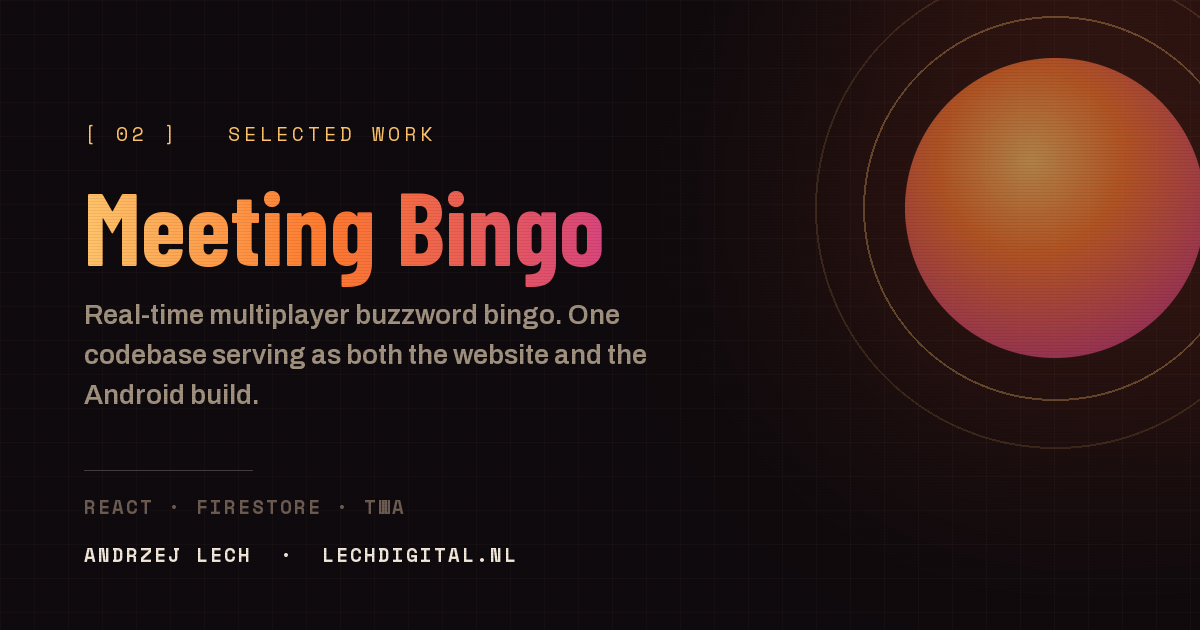
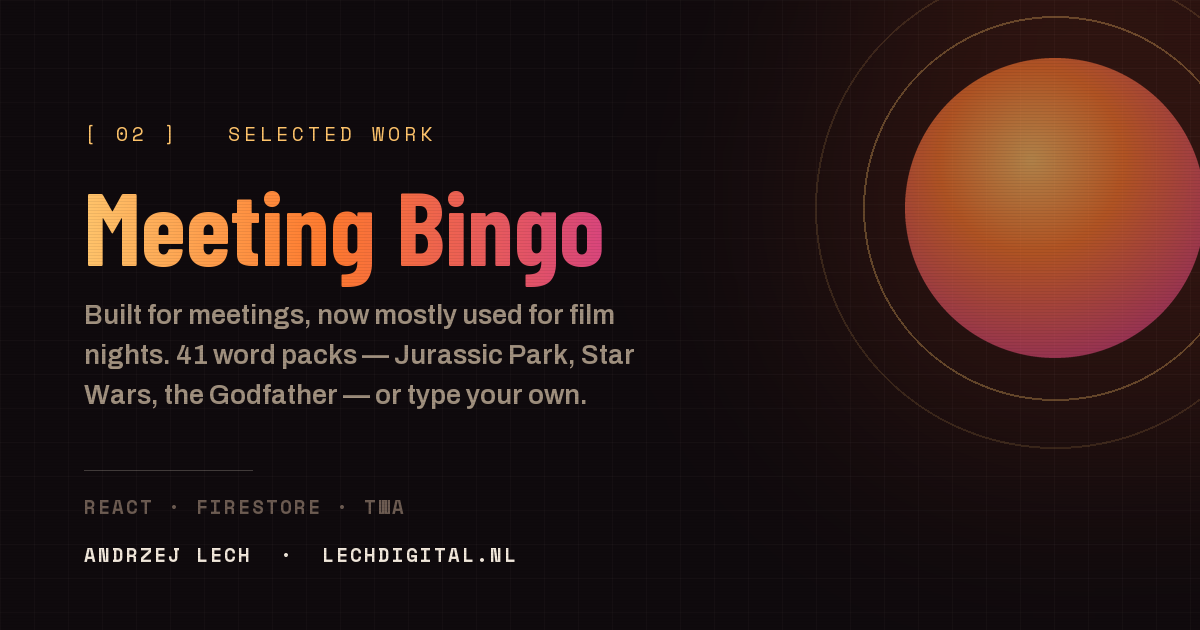
Meeting Bingo: reframe around film nights
The game outgrew its name. The repo now carries 41 word packs — every Star
Wars film, six Jurassic Park entries, Men in Black, the Godfather trilogy,
Game of Thrones, The Office, eight music packs, football and basketball —
plus a free-text editor for your own list. The seven meeting packs are still
there, but they are no longer what the thing is for.

Rewrites the lede and the Why section, and updates the card on the front
page, the meta description, the OG card and the JSON-LD to match.

Changed region(s): [[0.0617, 0.4825, 0.555, 0.6635]]

diff --git a/projects/meeting-bingo/index.html b/projects/meeting-bingo/index.html
@@ -4,7 +4,7 @@
 <meta charset="utf-8">
 <meta name="viewport" content="width=device-width, initial-scale=1">
 <title>Meeting Bingo — Andrzej Lech</title>
-<meta name="description" content="Real-time multiplayer buzzword bingo for your next meeting. One codebase that is both the website and the Android app.">
+<meta name="description" content="Real-time multiplayer bingo with 41 word packs — built for meetings, now mostly used for film nights. Jurassic Park, Star Wars, or type your own list.">
 <link rel="canonical" href="https://lechdigital.nl/projects/meeting-bingo/">
 <meta name="author" content="Andrzej Lech">
 <meta name="color-scheme" content="dark">
@@ -14,19 +14,19 @@
 <meta property="og:site_name" content="Lech Digital">
 <meta property="og:locale" content="en_GB">
 <meta property="og:url" content="https://lechdigital.nl/projects/meeting-bingo/">
-<meta property="og:title" content="Meeting Bingo — real-time multiplayer buzzword bingo">
-<meta property="og:description" content="Real-time multiplayer buzzword bingo for your next meeting. One codebase that is both the website and the Android app.">
+<meta property="og:title" content="Meeting Bingo — built for meetings, kidnapped by film night">
+<meta property="og:description" content="Real-time multiplayer bingo with 41 word packs. Jurassic Park, Star Wars, the Godfather trilogy — or type your own list.">
 <meta property="og:image" content="https://lechdigital.nl/assets/og/og-meeting-bingo.png">
 <meta property="og:image:type" content="image/png">
 <meta property="og:image:width" content="1200">
 <meta property="og:image:height" content="630">
-<meta property="og:image:alt" content="Meeting Bingo — real-time multiplayer buzzword bingo.">
+<meta property="og:image:alt" content="Meeting Bingo — real-time multiplayer bingo, built for meetings and now used for film nights.">
 
 <meta name="twitter:card" content="summary_large_image">
-<meta name="twitter:title" content="Meeting Bingo — real-time multiplayer buzzword bingo">
-<meta name="twitter:description" content="Real-time multiplayer buzzword bingo for your next meeting. One codebase that is both the website and the Android app.">
+<meta name="twitter:title" content="Meeting Bingo — built for meetings, kidnapped by film night">
+<meta name="twitter:description" content="Real-time multiplayer bingo with 41 word packs. Jurassic Park, Star Wars, the Godfather trilogy — or type your own list.">
 <meta name="twitter:image" content="https://lechdigital.nl/assets/og/og-meeting-bingo.png">
-<meta name="twitter:image:alt" content="Meeting Bingo — real-time multiplayer buzzword bingo.">
+<meta name="twitter:image:alt" content="Meeting Bingo — real-time multiplayer bingo, built for meetings and now used for film nights.">
 
 <link rel="icon" href="/favicon.ico" sizes="32x32">
 <link rel="icon" href="/assets/icons/favicon.svg" type="image/svg+xml">
@@ -44,8 +44,9 @@
   "@type": "SoftwareApplication",
   "name": "Meeting Bingo",
   "url": "https://lechdigital.nl/projects/meeting-bingo/",
-  "description": "Real-time multiplayer buzzword bingo for your next meeting. One codebase that is both the website and the Android app.",
+  "description": "Real-time multiplayer bingo with 41 word packs — built for meetings, now mostly used for film nights. Jurassic Park, Star Wars, the Godfather trilogy, or your own list.",
   "applicationCategory": "GameApplication",
+  "genre": "Party game",
   "operatingSystem": "Web, Android",
   "isAccessibleForFree": true,
   "sameAs": [
@@ -82,8 +83,8 @@
       <span class="section-label">[ Project ] &nbsp;Meeting Bingo</span>
       <h1>Meeting Bingo</h1>
       <p class="lede">
-        Real-time multiplayer bingo for your next meeting. Join a room, mark the
-        buzzwords as you hear them, and try not to shout when you win.
+        Real-time multiplayer bingo with a card full of things you are about to hear.
+        It was built for meetings. These days it mostly gets used for film nights.
       </p>
       <div class="project-links">
         <a href="https://meeting-bingo-a52cc.web.app" rel="noopener">Play it &rarr;</a>
@@ -95,12 +96,27 @@
   <section class="section">
     <div class="wrap">
       <span class="section-label">[ 01 ] &nbsp;Why</span>
-      <h2>Not everything has to be serious</h2>
+      <h2>It changed jobs</h2>
       <div class="prose">
         <p>
-          Some meetings are a genuine use of everyone&rsquo;s morning. The others are
-          "circling back" to "align on synergies" and "socialise the roadmap". You
+          It started exactly where the name says. Some meetings are a genuine use of
+          everyone&rsquo;s morning. The others are &ldquo;circling back&rdquo; to
+          &ldquo;align on synergies&rdquo; and &ldquo;socialise the roadmap&rdquo;. You
           can&rsquo;t leave, so you may as well score points.
+        </p>
+        <p>
+          Then it got taken to a film night, and quietly changed jobs. A card of
+          &ldquo;Clever girl&rdquo;, &ldquo;Hold onto your butts&rdquo; and &ldquo;Spared
+          no expense&rdquo; beats any meeting card ever dealt: everyone is watching the
+          same thing, everyone knows the line is coming, and the room goes up half a
+          second before it lands.
+        </p>
+        <p>
+          So the word lists grew. There are 41 packs now &mdash; every Star Wars film,
+          six Jurassic Park entries, Men in Black, the Godfather trilogy, Game of Thrones,
+          The Office, eight music packs, football and basketball. You can also just type
+          your own, one line per tile, which is what most film nights end up doing anyway.
+          The meeting packs are still in there; they are simply no longer the point.
         </p>
         <p>
           Every player gets their own shuffled card, marks tiles as the words land, and

diff --git a/index.html b/index.html
@@ -156,7 +156,7 @@
             <h3>Meeting Bingo</h3>
             <span class="tag tag-free">Free</span>
           </div>
-          <p>Real-time multiplayer buzzword bingo. One codebase serving as both the website and the Android build.</p>
+          <p>Real-time multiplayer bingo. Built for meetings, now mostly used for film nights &mdash; 41 word packs, or type your own.</p>
           <p class="mono stack">React &middot; Firestore &middot; TWA</p>
         </a>
 
